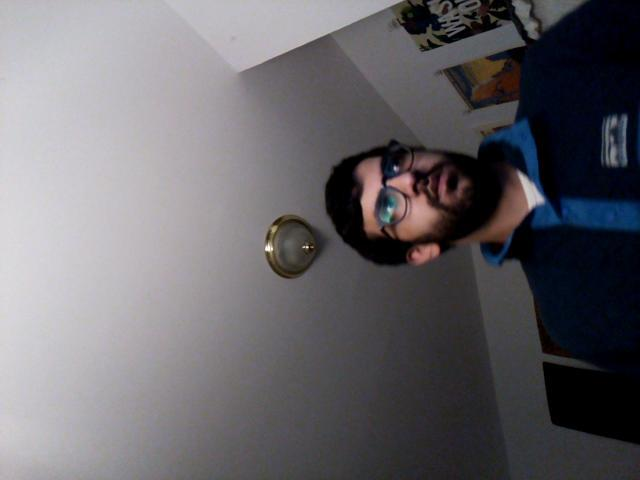
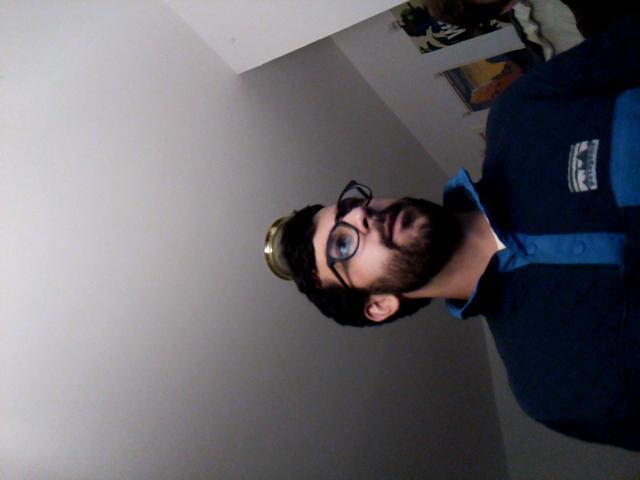
fix coordinate rotation

diff --git a/mirror_ml_server.py b/mirror_ml_server.py
@@ -6,6 +6,7 @@ import subprocess
 import io
 import logging
 import json
+import math
 import numpy as np
 import socket
 import time
@@ -14,6 +15,7 @@ from edgetpu.detection.engine import DetectionEngine
 from edgetpu.classification.engine import ClassificationEngine
 from PIL import Image
 from threading import Thread
+from mirror_utils import rotate_around_point
 
 
 UDP_IP = '127.0.0.1'
@@ -69,6 +71,8 @@ def detect_face(engine, sendSocket):
                 logger.info('Could not read image')
                 continue
 
+            capture_width, capture_height = image.size
+
             # our camera is sideways, so we need to compensate with clockwise rotation
             image.save('full.jpg', 'JPEG')
             image = image.rotate(-90)
@@ -80,8 +84,19 @@ def detect_face(engine, sendSocket):
             # logger.debug('time to detect faces: %d\n' %
             #              (time.time() - start_s) * 1000)
 
-            output = list(map(lambda result:
-                              {'box': result.bounding_box.flatten().tolist()}, results))
+            rotation_origin = (capture_width / 2, capture_height / 2)
+            rotation_radians = math.pi / 2
+
+            def map_result(result):
+                [x1, y1, x2, y2] = result.bounding_box.flatten().tolist()
+                qx1, qy1 = rotate_around_point(
+                    (x1, y1), rotation_radians, rotation_origin)
+                qx2, qy2 = rotate_around_point(
+                    (x2, y2), rotation_radians, rotation_origin)
+                # simple ordering would give the top right corner, but we want top left
+                return {'box': [qx1, qy2, qx2, qy1]}
+
+            output = list(map(map_result, results))
             logger.debug(output)
 
             message = json.dumps({'detection': output})

diff --git a/mirror_utils.py b/mirror_utils.py
@@ -1,0 +1,19 @@
+import math
+
+
+def rotate_around_point(xy, radians, origin=(0, 0)):
+    """
+    Rotate a point around a given point.
+
+    see https://gist.github.com/LyleScott/e36e08bfb23b1f87af68c9051f985302
+    """
+    x, y = xy
+    offset_x, offset_y = origin
+    adjusted_x = (x - offset_x)
+    adjusted_y = (y - offset_y)
+    cos_rad = math.cos(radians)
+    sin_rad = math.sin(radians)
+    qx = offset_x + cos_rad * adjusted_x + sin_rad * adjusted_y
+    qy = offset_y + -sin_rad * adjusted_x + cos_rad * adjusted_y
+
+    return qx, qy
